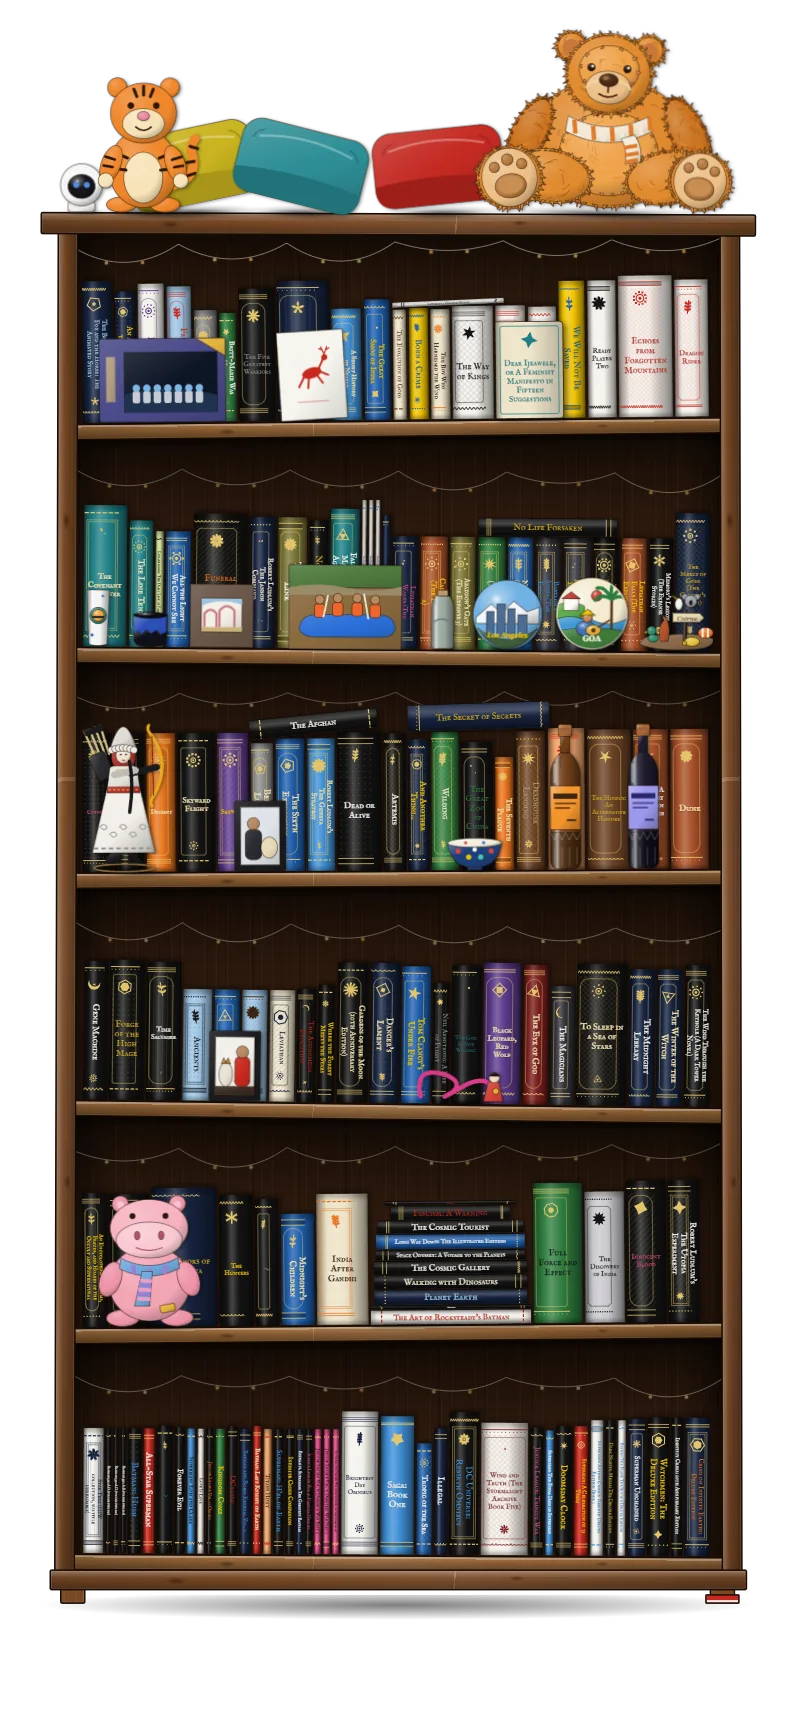
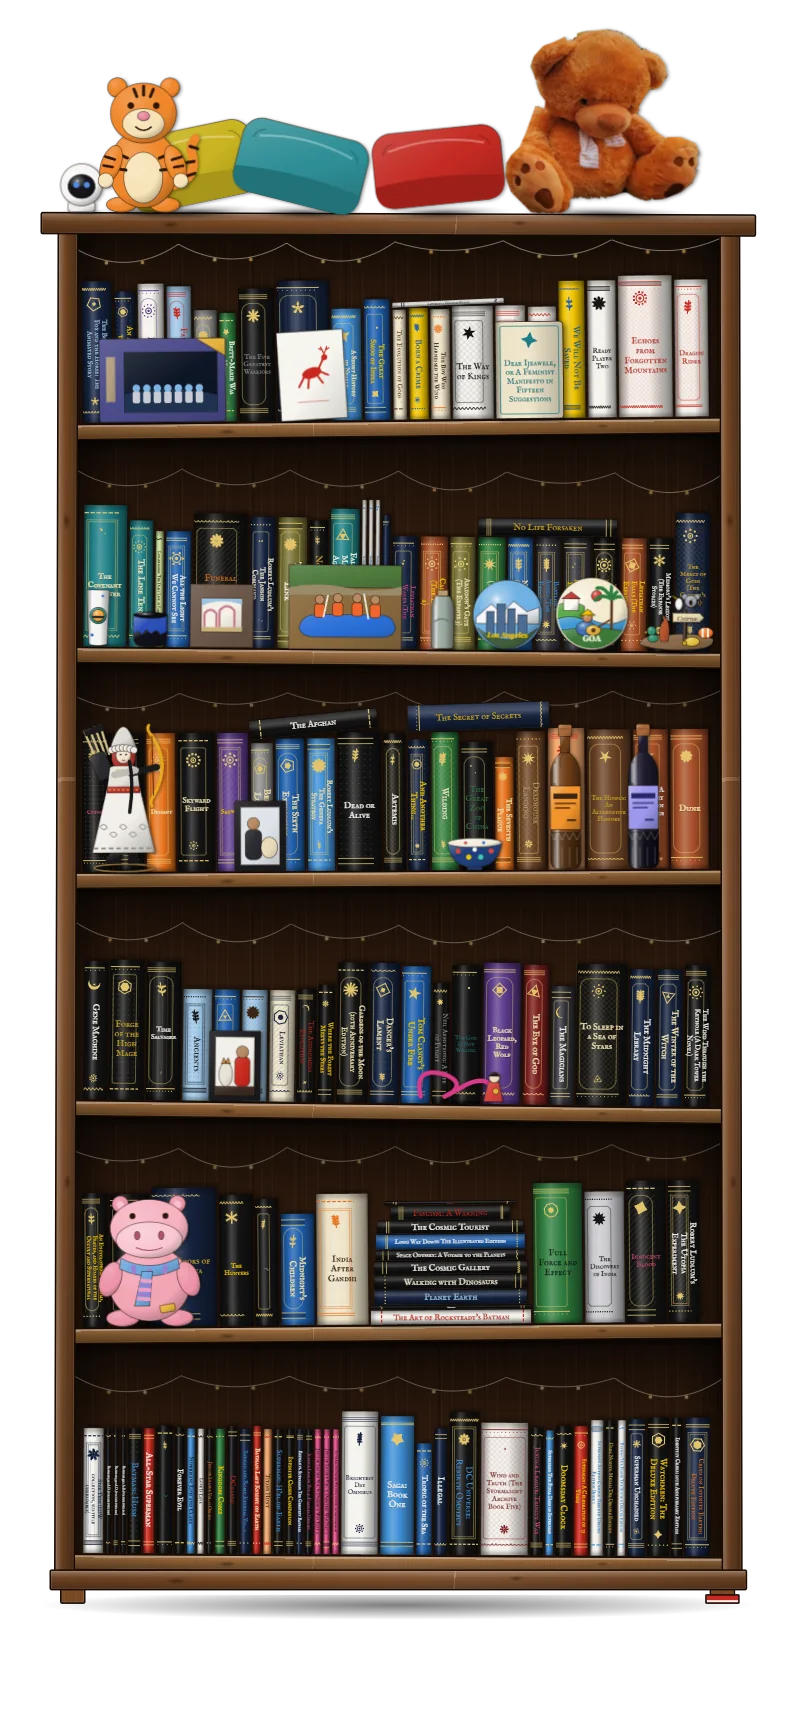
Dungeon v2.22.2
The Library's teddy is a cut-out of the real one.

Changed region(s): [[0.5908, 0.0, 0.9328, 0.1233]]

diff --git a/assets/js/library.js b/assets/js/library.js
@@ -480,6 +480,8 @@
     /* Curios: the things standing on the shelves and on top of the cases, drawn here and placed by library.json.
        Each is [width, height, drawing]. A visitor can drag any of them to any shelf; clicking one shows its details. */
     const SK='stroke="rgba(30,15,5,.6)" stroke-width="1" stroke-linejoin="round"',NS0='stroke="none"';
+    /* the teddy is a photograph of the real one, cut out (assets/images/teddy.webp); the page says where it is */
+    const TEDDY=(document.querySelector('.lib')||{dataset:{}}).dataset.teddy||'';
     const frame=(w,h,pic)=>[w,h,`<rect x="1" y="1" width="${w-2}" height="${h-2}" rx="2" fill="#1b1b1e"/><rect x="9" y="9" width="${w-18}" height="${h-18}" fill="#E9EEF2"/><g transform="translate(9 9)">${pic}</g>`];
     const astro=(v,up)=>`<g transform="rotate(${up?150:22} 17 29)"><rect x="12.5" y="26" width="9" height="19" rx="4.5" fill="#E4E4E8"/><circle cx="17" cy="46" r="5.4" fill="#C9CCD3"/></g><g transform="rotate(${up?-150:-22} 37 29)"><rect x="32.5" y="26" width="9" height="19" rx="4.5" fill="#E4E4E8"/><circle cx="37" cy="46" r="5.4" fill="#C9CCD3"/></g><rect x="14" y="26" width="26" height="26" rx="7" fill="#F4F4F6"/><rect x="21" y="32" width="12" height="8" rx="2" fill="#C9CCD3"/><rect x="16" y="50" width="9" height="20" rx="4" fill="#F4F4F6"/><rect x="29" y="50" width="9" height="20" rx="4" fill="#F4F4F6"/><rect x="14" y="66" width="13" height="6" rx="3" fill="#C9CCD3"/><rect x="28" y="66" width="13" height="6" rx="3" fill="#C9CCD3"/><circle cx="27" cy="15" r="14" fill="#F4F4F6"/><ellipse cx="27" cy="16" rx="9" ry="8" fill="${v}"/><ellipse cx="24" cy="13" rx="2.5" ry="3.5" fill="rgba(255,255,255,.6)" ${NS0}/>`;
     const owl=(c,c2,inst)=>[56,66,`<ellipse cx="28" cy="42" rx="20" ry="22" fill="${c}"/><ellipse cx="28" cy="48" rx="12" ry="13" fill="${c2}"/><path d="M12 14l6 8M44 14l-6 8" stroke="${c}" stroke-width="5"/><circle cx="19" cy="26" r="10" fill="#F3E3B0"/><circle cx="37" cy="26" r="10" fill="#F3E3B0"/><circle cx="19" cy="26" r="4.5" fill="#2A1608"/><circle cx="37" cy="26" r="4.5" fill="#2A1608"/><path d="M25 31l3 6l3 -6z" fill="#E8A21C"/><path d="M20 63h6M30 63h6" stroke="#8A6A3A" stroke-width="3"/>${inst}`];
@@ -529,7 +531,7 @@
      tiger:[150,190,`<path d="M116 152Q148 142 140 110Q136 98 144 90" fill="none" stroke="#F0872B" stroke-width="12" stroke-linecap="round"/><path d="M132 140l12 -4M143 120l-12 2M137 100l10 3" stroke="#2A1608" stroke-width="4" stroke-linecap="round"/><ellipse cx="46" cy="178" rx="20" ry="10" fill="#F0872B"/><ellipse cx="104" cy="178" rx="20" ry="10" fill="#F0872B"/><ellipse cx="75" cy="130" rx="46" ry="52" fill="#F0872B"/><ellipse cx="75" cy="142" rx="26" ry="34" fill="#F7E3B8"/><path d="M40 110l14 6M38 130l14 2M110 110l-14 6M112 130l-14 2" stroke="#2A1608" stroke-width="4" stroke-linecap="round"/><ellipse cx="32" cy="124" rx="13" ry="26" fill="#F0872B" transform="rotate(20 32 124)"/><ellipse cx="118" cy="124" rx="13" ry="26" fill="#F0872B" transform="rotate(-20 118 124)"/><circle cx="25" cy="146" r="10" fill="#F7E3B8"/><circle cx="125" cy="146" r="10" fill="#F7E3B8"/><path d="M24 114l13 4M22 126l12 2M126 114l-13 4M128 126l-12 2" stroke="#2A1608" stroke-width="3.5" stroke-linecap="round"/><circle cx="40" cy="22" r="13" fill="#F0872B"/><circle cx="110" cy="22" r="13" fill="#F0872B"/><ellipse cx="75" cy="56" rx="44" ry="40" fill="#F0872B"/><ellipse cx="75" cy="70" rx="28" ry="20" fill="#F7E3B8"/><ellipse cx="75" cy="60" rx="8" ry="6" fill="#E88AA0"/><circle cx="58" cy="46" r="4" fill="#2A1608"/><circle cx="92" cy="46" r="4" fill="#2A1608"/><path d="M62 24l4 10M75 20v12M88 24l-4 10" stroke="#2A1608" stroke-width="4" stroke-linecap="round"/><path d="M64 74Q75 84 86 74" fill="none" stroke="#2A1608" stroke-width="2"/>`],
      cushionYellow:cushion('#D8C21C',-12),cushionTeal:cushion('#2F8F96',14),cushionRed:cushion('#C8281E',-6),
      camera:[64,72,`<rect x="14" y="56" width="36" height="14" rx="5" fill="#EDEDED"/><circle cx="32" cy="34" r="28" fill="#F6F6F6"/><ellipse cx="32" cy="36" rx="18" ry="16" fill="#15151B"/><circle cx="25" cy="34" r="4" fill="#4F8FE8" ${NS0}/><circle cx="39" cy="34" r="4" fill="#4F8FE8" ${NS0}/>`],
-     teddy:[364,212,`<ellipse cx="190" cy="124" rx="120" ry="80" fill="#C98A2E"/><circle cx="196" cy="26" r="22" fill="#C98A2E"/><circle cx="292" cy="32" r="22" fill="#C98A2E"/><circle cx="240" cy="72" r="62" fill="#D0943A"/><ellipse cx="246" cy="94" rx="30" ry="24" fill="#E8B878"/><ellipse cx="246" cy="84" rx="10" ry="7" fill="#5A3A1E"/><circle cx="222" cy="64" r="5" fill="#2A1608"/><circle cx="268" cy="64" r="5" fill="#2A1608"/><path d="M150 98l60 30l-10 22l-60 -30z" fill="#F4F1EA"/><path d="M160 108l8 -16M176 116l8 -16M192 124l8 -16" stroke="#C9C2B0" stroke-width="5"/><ellipse cx="70" cy="152" rx="52" ry="56" fill="#D0943A"/><ellipse cx="70" cy="158" rx="30" ry="34" fill="#F0B878"/><ellipse cx="70" cy="162" rx="12" ry="16" fill="#7A4A1E"/><ellipse cx="322" cy="154" rx="40" ry="52" fill="#D0943A"/><ellipse cx="322" cy="160" rx="22" ry="32" fill="#F0B878"/><ellipse cx="322" cy="164" rx="9" ry="14" fill="#7A4A1E"/>`],
+     teddy:[262,249,`<image href="${TEDDY}" width="262" height="249"/>`],
      basket:[84,104,`<path d="M22 30Q42 -10 62 30" fill="none" stroke="#C9B27A" stroke-width="6"/><rect x="10" y="28" width="64" height="74" rx="14" fill="#D9C48A"/><path d="M10 44H74M10 60H74M10 76H74M10 90H74M26 28V102M42 28V102M58 28V102" stroke="#A88F5A" stroke-width="2"/><rect x="30" y="52" width="24" height="26" fill="#F2D21C"/><rect x="30" y="52" width="24" height="8" fill="#2F8F4E" ${NS0}/>`],
      mazeBall:[132,124,`<rect x="50" y="112" width="32" height="10" rx="4" fill="#2A2A2E"/><circle cx="66" cy="60" r="56" fill="#DCEAF2" fill-opacity=".55"/><path d="M10 60A56 56 0 0 0 122 60Z" fill="#E8B81C"/><ellipse cx="66" cy="60" rx="60" ry="12" fill="#2A7FD8"/><ellipse cx="66" cy="58" rx="50" ry="8" fill="#DCEAF2"/><path d="M36 40Q66 10 96 40M50 46Q66 28 82 46" fill="none" stroke="#fff" stroke-width="4"/>`]};
     /* Redrawn from the shelf photos: the real colours and details of each piece */
@@ -569,39 +571,7 @@
       let ed='';for(let r=0;r<3;r++)for(let i=0;i<5;i++)ed+=`<circle cx="${f1(22+i*7+r*4)}" cy="${f1(96-i*4.6+r*7)}" r="2" fill="#34C7A5"/>`;
       const half=`<path d="M0 124V86L62 52L88 96L40 124Z" fill="#17140F"/>${ed}<path d="M60 54L86 98M67 50L93 94" stroke="#F6DFAE" stroke-width="1.3"/><g transform="translate(2 12) rotate(-9 104 52)">${roo}</g>`;
       CURIO.boomerang=[330,124,`<defs><clipPath id="lbbm"><path d="${BP}"/></clipPath></defs><path d="${BP}" fill="#D8702A"/><g clip-path="url(#lbbm)" ${NS0}>${bd}${half}<g transform="translate(330 0) scale(-1 1)">${half}</g><circle cx="165" cy="27" r="15" fill="#17140F"/>${ring}<circle cx="165" cy="27" r="6" fill="#2FA98F"/><circle cx="165" cy="27" r="2.5" fill="#F6DFAE"/></g>`];
-      {const RT=rng(4417),g1=n=>n.toFixed(1);
-        // a fluffy shape: a solid ellipse with a ring of small tufts round its edge, so the outline is soft and shaggy, plus a few short hair strokes
-        const fur=(cx,cy,rx,ry,col,tuft,hair,rot=0,n=0,soft=0)=>{n=n||Math.round((rx+ry)/5.5);let o=`<g transform="rotate(${rot} ${cx} ${cy})"><ellipse cx="${cx}" cy="${cy}" rx="${rx}" ry="${ry}" fill="${col}"/>`;
-          const m=Math.round(n*(soft?1.2:2.6));
-          for(let i=0;i<m;i++){const a=i/m*6.2832+RT()*.1,nx=Math.cos(a),ny=Math.sin(a),px=cx+nx*(rx-3),py=cy+ny*(ry-3),tx=-ny,ty=nx,L=soft?3+RT()*3:4+RT()*5,w=soft?2+RT()*1.2:1.6+RT()*1.4,bd=(RT()-.5)*(soft?4:12),c=RT()<.12&&!soft?tuft:RT()<.1?hair:col,
-              tipx=px+nx*L+tx*bd,tipy=py+ny*L+ty*bd,cxm=px+nx*L*.55+tx*bd*.9,cym=py+ny*L*.55+ty*bd*.9;
-            o+=`<path d="M${g1(px-tx*w)} ${g1(py-ty*w)}Q${g1(cxm-tx*w*.4)} ${g1(cym-ty*w*.4)} ${g1(tipx)} ${g1(tipy)}Q${g1(cxm+tx*w*.7)} ${g1(cym+ty*w*.7)} ${g1(px+tx*w)} ${g1(py+ty*w)}Z" fill="${c}"/>`}
-          for(let i=0;i<Math.round(n*1.1);i++){const a=RT()*6.2832,d=.2+RT()*.7,x=cx+Math.cos(a)*rx*d,y=cy+Math.sin(a)*ry*d,l=7+RT()*8,t=a+1.2+RT()*.7,ex=x+Math.cos(t)*l,ey=y+Math.sin(t)*l;
-            o+=`<path d="M${g1(x)} ${g1(y)}Q${g1((x+ex)/2+Math.sin(t)*3)} ${g1((y+ey)/2-Math.cos(t)*3)} ${g1(ex)} ${g1(ey)}" fill="none" stroke="${RT()<.7?hair:tuft}" stroke-width="1.3" stroke-linecap="round" opacity=".5"/>`}
-          return o+'</g>'};
-        const O1='#E08A2E',O2='#CC7420',O3='#F0A24A',HR='#8F4A12',HL='#F8C070',TAN='#EDC088',PAD='#B87A3E';
-        // a foot seen from the front: its fluffy rim, the tan sole, the big oval heel pad and three toe pads
-        const foot=(x,y,r,rot)=>`<g transform="rotate(${rot} ${x} ${y})">${fur(x,y,r+4,r+2,O1,O3,HR,0,16)}<ellipse cx="${x}" cy="${y}" rx="${r-3}" ry="${r-1}" fill="${TAN}"/><ellipse cx="${x}" cy="${g1(y+r*.28)}" rx="${g1(r*.52)}" ry="${g1(r*.4)}" fill="${PAD}"/><ellipse cx="${x}" cy="${g1(y+r*.24)}" rx="${g1(r*.42)}" ry="${g1(r*.3)}" fill="#C98E52" ${NS0}/><circle cx="${g1(x-r*.46)}" cy="${g1(y-r*.4)}" r="${g1(r*.17)}" fill="${PAD}"/><circle cx="${x}" cy="${g1(y-r*.6)}" r="${g1(r*.19)}" fill="${PAD}"/><circle cx="${g1(x+r*.46)}" cy="${g1(y-r*.4)}" r="${g1(r*.17)}" fill="${PAD}"/></g>`;
-        let st='';for(let i=0;i<9;i++){const x=150+i*12;st+=`<path d="M${x} 108q3 9 1 22" stroke="${i%2?O1:'#E8DCC4'}" stroke-width="5" fill="none" opacity="1"/>`}
-        CURIO.teddy=[364,248,
-          fur(190,152,108,86,O1,O3,HR)+
-          fur(84,140,24,54,O2,O3,HR,26)+fur(296,140,24,54,O2,O3,HR,-26)+
-          fur(190,166,66,56,O3,HL,'#C77A26',0,0,1)+
-          fur(112,196,56,36,O1,O3,HR,10)+fur(268,198,56,36,O1,O3,HR,-10)+
-          foot(58,198,40,-8)+foot(312,202,38,8)+
-                    `<g transform="translate(0 -10) rotate(3 190 70)">`+
-            fur(138,36,21,21,O1,O3,HR,0,9)+`<circle cx="138" cy="38" r="12" fill="#C8783A" ${NS0}/>`+
-            fur(242,36,21,21,O1,O3,HR,0,9)+`<circle cx="242" cy="38" r="12" fill="#C8783A" ${NS0}/>`+
-            fur(190,70,58,54,O1,O3,HR,0,22)+fur(190,64,40,32,O3,HL,'#C77A26',0,8,1)+
-            `<ellipse cx="190" cy="88" rx="30" ry="22" fill="${TAN}"/><path d="M160 90q4 -12 30 -12t30 12" fill="none" stroke="#F5D8A8" stroke-width="3" opacity=".7"/>`+
-            `<ellipse cx="190" cy="78" rx="12.5" ry="8.5" fill="#4A2A12"/><ellipse cx="186" cy="75.5" rx="4" ry="2.4" fill="#9A6A44" ${NS0}/>`+
-            `<path d="M190 86v8M178 97q12 7 24 0" fill="none" stroke="#4A2A12" stroke-width="2.4" stroke-linecap="round"/>`+
-            `<circle cx="166" cy="62" r="5" fill="#241208"/><circle cx="214" cy="62" r="5" fill="#241208"/><circle cx="167.6" cy="60.4" r="1.7" fill="#fff" ${NS0}/><circle cx="215.6" cy="60.4" r="1.7" fill="#fff" ${NS0}/>`+
-          `</g>`+
-          `<g transform="translate(0 8)">`+`<path d="M136 108Q190 136 244 108L248 128Q190 158 132 128Z" fill="#F2EAD8"/>`+
-            [0,1,2,3,4,5,6,7,8].map(i=>{const x=144+i*12.5,u=(x-190)/54;return `<path d="M${g1(x)} ${g1(108+14*(1-u*u)+1)}L${g1(x+1.5)} ${g1(128+15*(1-u*u)-1)}" stroke="${i%2?'#F2EAD8':'#E07A2A'}" stroke-width="6"/>`}).join('')+
-            `<path d="M206 138q9 12 6 34l20 -3q4 -20 -8 -36z" fill="#F2EAD8"/><path d="M210 150l18 -3M211 160l19 -3M212 169l17 -3" stroke="#E07A2A" stroke-width="5"/></g>`];
-      }
+      CURIO.teddy=[262,249,`<image href="${TEDDY}" width="262" height="249"/>`];
       CURIO.mazeBall=[136,140,`<path d="M44 136h48l-8 -16H52z" fill="#23232A"/><defs><clipPath id="lbpx"><circle cx="68" cy="64" r="58"/></clipPath></defs><circle cx="68" cy="64" r="60" fill="#DDEAF2" fill-opacity=".38" stroke="#7FA6BF" stroke-width="2"/><g clip-path="url(#lbpx)" fill="none" stroke-linecap="round" ${NS0}><path d="M8 100A60 60 0 0 0 128 100Z" fill="#E8B81C" fill-opacity=".9"/><path d="M40 30Q66 12 98 30Q76 46 54 38" stroke="#3BB273" stroke-width="6"/><path d="M20 84Q40 40 70 50T118 42" stroke="#F2C81C" stroke-width="7"/><path d="M24 58Q50 98 84 80T114 88" stroke="#2A7FD8" stroke-width="7"/><path d="M48 106Q70 92 94 106" stroke="#F0772B" stroke-width="6"/><path d="M68 20V58M90 38L60 72" stroke="#F4F4F2" stroke-width="4"/><circle cx="84" cy="78" r="4.5" fill="#C9CCD3" stroke="#6E7480" stroke-width="1"/></g><ellipse cx="68" cy="100" rx="52" ry="8" fill="none" stroke="#2A7FD8" stroke-width="5"/><path d="M28 42Q40 20 62 12" fill="none" stroke="#fff" stroke-width="4" stroke-linecap="round" opacity=".85"/>`];
       let weave='';for(let i=-12;i<16;i++)weave+=`<path d="M${i*9} 36l92 92M${i*9+92} 36l-92 92" stroke="#A88F5A" stroke-width="1.6"/>`;
       CURIO.basket=[70,130,`<rect x="26" y="4" width="18" height="9" rx="2" fill="#C9A227"/><rect x="28" y="12" width="14" height="30" fill="#4F6E38"/><path d="M20 46Q35 -8 50 46" fill="none" stroke="#C9B27A" stroke-width="5"/><defs><clipPath id="lbbt"><path d="M10 64Q10 42 28 40H42Q60 42 60 64V114Q60 126 48 126H22Q10 126 10 114Z"/></clipPath></defs><path d="M10 64Q10 42 28 40H42Q60 42 60 64V114Q60 126 48 126H22Q10 126 10 114Z" fill="#DCC890"/><g clip-path="url(#lbbt)" ${NS0}>${weave}<path d="M50 40Q62 44 60 126H52Z" fill="rgba(60,40,10,.2)"/></g><rect x="20" y="72" width="30" height="26" fill="#F2D21C"/><rect x="20" y="72" width="30" height="8" fill="#2F8F4E" ${NS0}/><path d="M24 86h22M24 91h16" stroke="#2A1608" stroke-width="1.2"/>`]}

diff --git a/extras/shelves/harness.html b/extras/shelves/harness.html
@@ -19,7 +19,7 @@
 </head>
 <body>
 <main>
-<div class="lib" data-src="/assets/data/library.json" data-render="landing">
+<div class="lib" data-src="/assets/data/library.json" data-render="landing" data-teddy="/assets/images/teddy.webp">
     <div class="lib-nav" id="lib-nav"></div>
     <div id="lib-vp"><div id="lib-sizer"><div id="lib-case"></div></div></div>
     <p class="lib-msg" id="lib-msg"></p>

diff --git a/CHANGELOG.md b/CHANGELOG.md
@@ -1,5 +1,9 @@
 # Changelog
 
+## 2.22.2
+
+- **The Library's teddy is the real one.** The drawn teddy is replaced by a cut-out of your photo of it (`assets/images/teddy.webp`, 80 KB, fetched with the page). Booster still sleeps in front of it, between its big feet. The Shelf 1 picture is made again.
+
 ## 2.22.1
 
 - **Booster: fewer "two cats at once" moments.** Between two frames the old picture now fades out only over the last 40% of the time it is shown (it was nearly all of it in 2.22.0), and the fade from one action to the next is shorter. The walk is a little quicker than 2.22.0 and still slower than before. Her frames are lined up on the middle of her body, not the whole shape. Honest limit: where two painted poses differ a lot, a fade shows both; real smoothness needs more painted frames, and the walk needs the new sheet with the hind legs stepping.
